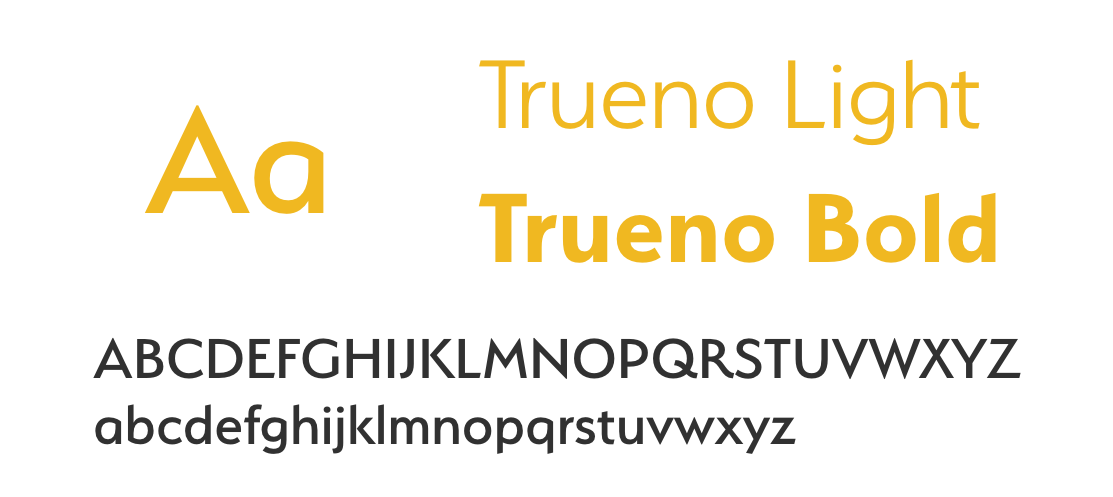
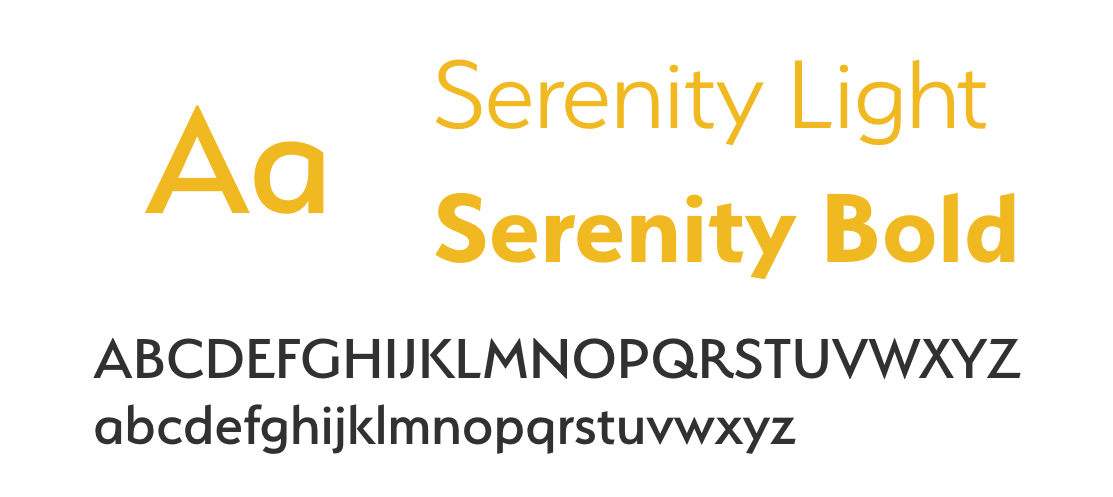
Images Fix - November 14th

Changed region(s): [[0.3971, 0.3622, 0.9164, 0.5734], [0.3971, 0.1207, 0.8859, 0.3018]]

diff --git a/project-pbisports.html b/project-pbisports.html
@@ -57,16 +57,39 @@
         </div>
       </div>
 
-      <div class="grid wrapper">
-        <div class="unit xs-1 s-1 m-1-2 l-1-2">
-          <h3 style="font-weight: 600; color:#DF4949" class="tera red-select push-1-2">Icons.</h3>
-
-        </div>
-        <div class="unit xs-1 s-1 m-1-2 l-1-2">
+      <div class="grid wrapper push-2">
+        <div class="unit xs-1 s-1 m-1 l-1 text-center">
           <h3 style="font-weight: 600; color:#DF4949" class="tera red-select push-1-2">Typeface.</h3>
-          <img width="100%;" src="images/pbi-sports/pbi-sports-trueno-font.png">
+          <img width="60%;" src="images/pbi-sports/pbi-sports-trueno-font.png">
         </div>
       </div>
+
+      <section id="contact" class="section-4 text-center pad-t-2 pad-b-2">
+        <h3 class="push-none red-text red-select">Tell me your vision!</h3>
+
+        <div class="form pad-t-1-2">
+          <div class="container">
+            <form action="action_page.php">
+
+              <label class="red-text red-select" for="fname">Name</label>
+              <input type="text" id="name" name="name" placeholder="Your name..">
+
+              <label class="red-text red-select" for="fname">Company Name</label>
+              <input type="text" id="name" name="companyname" placeholder="Your Company name..">
+
+              <label class="red-text red-select" for="subject">Tell us a bit about yourself!</label>
+              <textarea id="subject" name="subject" placeholder="Write something.." style="height:100px"></textarea>
+
+              <input type="submit" value="Submit">
+
+            </form>
+          </div>
+        </div>
+      </section>
+
+      <section class="section-5 text-center pad-t-1-2 pad-b-1-2">
+        <h5 class="micro push-none bold copyright-text red-select">© Matt Beaudry 2018 | Ottawa, Canada</h5>
+      </section>
 
   </section>
 

diff --git a/project-mdc.html b/project-mdc.html
@@ -60,16 +60,39 @@
         </div>
       </div>
 
-      <div class="grid wrapper">
-        <div class="unit xs-1 s-1 m-1-2 l-1-2">
-          <h3 style="font-weight: 600; color:#DF4949" class="tera red-select push-1-2">Icons.</h3>
-
-        </div>
-        <div class="unit xs-1 s-1 m-1-2 l-1-2">
+      <div class="grid wrapper push-2">
+        <div class="unit xs-1 s-1 m-1 l-1 text-center">
           <h3 style="font-weight: 600; color:#DF4949" class="tera red-select push-1-2">Typeface.</h3>
-          <img width="100%;" src="images/pbi-sports/pbi-sports-trueno-font.png">
+          <img width="60%;" src="images/mdc/mdc-brandong-font.png">
         </div>
       </div>
+
+      <section id="contact" class="section-4 text-center pad-t-2 pad-b-2">
+        <h3 class="push-none red-text red-select">Tell me your vision!</h3>
+
+        <div class="form pad-t-1-2">
+          <div class="container">
+            <form action="action_page.php">
+
+              <label class="red-text red-select" for="fname">Name</label>
+              <input type="text" id="name" name="name" placeholder="Your name..">
+
+              <label class="red-text red-select" for="fname">Company Name</label>
+              <input type="text" id="name" name="companyname" placeholder="Your Company name..">
+
+              <label class="red-text red-select" for="subject">Tell us a bit about yourself!</label>
+              <textarea id="subject" name="subject" placeholder="Write something.." style="height:100px"></textarea>
+
+              <input type="submit" value="Submit">
+
+            </form>
+          </div>
+        </div>
+      </section>
+
+      <section class="section-5 text-center pad-t-1-2 pad-b-1-2">
+        <h5 class="micro push-none bold copyright-text red-select">© Matt Beaudry 2018 | Ottawa, Canada</h5>
+      </section>
 
   </section>
 

diff --git a/project-rioinc.html b/project-rioinc.html
@@ -60,16 +60,39 @@
         </div>
       </div>
 
-      <div class="grid wrapper">
-        <div class="unit xs-1 s-1 m-1-2 l-1-2">
-          <h3 style="font-weight: 600; color:#DF4949" class="tera red-select push-1-2">Icons.</h3>
-
-        </div>
-        <div class="unit xs-1 s-1 m-1-2 l-1-2">
+      <div class="grid wrapper push-2">
+        <div class="unit xs-1 s-1 m-1 l-1 text-center">
           <h3 style="font-weight: 600; color:#DF4949" class="tera red-select push-1-2">Typeface.</h3>
-          <img width="100%;" src="images/rio-inc/rioinc-lato-font.png">
+          <img width="60%;" src="images/rio-inc/rioinc-lato-font.png">
         </div>
       </div>
+
+      <section id="contact" class="section-4 text-center pad-t-2 pad-b-2">
+        <h3 class="push-none red-text red-select">Tell me your vision!</h3>
+
+        <div class="form pad-t-1-2">
+          <div class="container">
+            <form action="action_page.php">
+
+              <label class="red-text red-select" for="fname">Name</label>
+              <input type="text" id="name" name="name" placeholder="Your name..">
+
+              <label class="red-text red-select" for="fname">Company Name</label>
+              <input type="text" id="name" name="companyname" placeholder="Your Company name..">
+
+              <label class="red-text red-select" for="subject">Tell us a bit about yourself!</label>
+              <textarea id="subject" name="subject" placeholder="Write something.." style="height:100px"></textarea>
+
+              <input type="submit" value="Submit">
+
+            </form>
+          </div>
+        </div>
+      </section>
+
+      <section class="section-5 text-center pad-t-1-2 pad-b-1-2">
+        <h5 class="micro push-none bold copyright-text red-select">© Matt Beaudry 2018 | Ottawa, Canada</h5>
+      </section>
 
   </section>
 

diff --git a/project-everthunder.html b/project-everthunder.html
@@ -58,17 +58,41 @@
       </div>
 
       <div class="grid wrapper">
-        <div class="unit xs-1 s-1 m-1-2 l-1-2">
-          <h3 style="font-weight: 600; color:#DF4949" class="tera red-select push-1-2">Icons.</h3>
-
-        </div>
-        <div class="unit xs-1 s-1 m-1-2 l-1-2">
+        <div class="unit xs-1 s-1 m-1 l-1 text-center push-2">
           <h3 style="font-weight: 600; color:#DF4949" class="tera red-select push-1-2">Typeface.</h3>
-          <img width="100%;" src="images/everthunder/everthunder-serenity-font.png">
+          <img width="60%;" src="images/everthunder/everthunder-serenity-font.png">
         </div>
       </div>
 
+      <section id="contact" class="section-4 text-center pad-t-2 pad-b-2">
+        <h3 class="push-none red-text red-select">Tell me your vision!</h3>
+
+        <div class="form pad-t-1-2">
+          <div class="container">
+            <form action="action_page.php">
+
+              <label class="red-text red-select" for="fname">Name</label>
+              <input type="text" id="name" name="name" placeholder="Your name..">
+
+              <label class="red-text red-select" for="fname">Company Name</label>
+              <input type="text" id="name" name="companyname" placeholder="Your Company name..">
+
+              <label class="red-text red-select" for="subject">Tell us a bit about yourself!</label>
+              <textarea id="subject" name="subject" placeholder="Write something.." style="height:100px"></textarea>
+
+              <input type="submit" value="Submit">
+
+            </form>
+          </div>
+        </div>
+      </section>
+
+      <section class="section-5 text-center pad-t-1-2 pad-b-1-2">
+        <h5 class="micro push-none bold copyright-text red-select">© Matt Beaudry 2018 | Ottawa, Canada</h5>
+      </section>
+
   </section>
+
 
 
 

diff --git a/index.html b/index.html
@@ -51,7 +51,7 @@
   </section>
 
   <section class="grid">
-    <div class="unit xs-1 s-1 m-1-2 l-1-2 xl-1-2">
+    <div class="unit xs-1 s-1 m-1 l-1-2 xl-1-2">
       <a href="project-rioinc.html">
         <div class="portfolio-container">
           <div class="card">
@@ -67,7 +67,7 @@
       </a>
     </div>
 
-    <div class="unit xs-1 s-1 m-1-2 l-1-2 xl-1-2">
+    <div class="unit xs-1 s-1 m-1 l-1-2 xl-1-2">
       <a href="project-pbisports.html">
         <div class="portfolio-container">
           <div class="card">
@@ -86,7 +86,7 @@
   </section>
 
   <section class="grid">
-    <div class="unit xs-1 s-1 m-1-2 l-1-2 xl-1-2">
+    <div class="unit xs-1 s-1 m-1 l-1-2 xl-1-2">
       <a href="project-mdc.html">
         <div class="portfolio-container">
           <div class="card">
@@ -102,7 +102,7 @@
       </a>
     </div>
 
-    <div class="unit xs-1 s-1 m-1-2 l-1-2 xl-1-2">
+    <div class="unit xs-1 s-1 m-1 l-1-2 xl-1-2">
       <a href="project-everthunder.html">
         <div class="portfolio-container">
           <div class="card">

diff --git a/css/main.css b/css/main.css
@@ -80,6 +80,8 @@ nav a:hover {
 
 .section-2 {
   background-color: #fff;
+  background-image: url(../images/background-texture.png);
+  background-blend-mode: normal;
 }
 
 .section-3 {
@@ -88,10 +90,12 @@ nav a:hover {
 
 .section-4 {
   background-color: #fff;
+  background-image: url(../images/background-texture.png);
+  background-blend-mode: normal;
 }
 
 .section-5 {
-  background-color: #a7a7a7;
+  background-color: #DF4949;
 }
 
 .portfolio-container, figure{
@@ -397,7 +401,7 @@ input[type=submit]:hover {
   z-index: -9999;
   height: 200px;
   width: 100%;
-  object-fit: none;
+  object-fit: cover;
 }
 
 .project-content {
